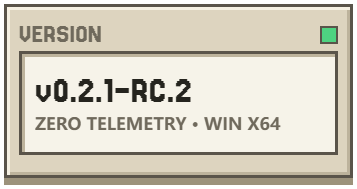
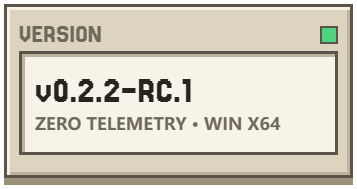
chore(release): 发布 Prismux v0.2.2-RC.1（0.2.2-rc.1）

Changed region(s): [[0.2773, 0.3968, 0.5546, 0.5556]]

diff --git a/assets/readme/header.html b/assets/readme/header.html
@@ -70,7 +70,7 @@ h1{margin:0;font-size:124px;line-height:1.12;height:140px;white-space:nowrap}
 </div>
 </section>
 <section class="metrics">
-<div id="stat-version" class="metric frame"><div class="metric-head pixel">VERSION<i class="lamp"></i></div><div class="metric-value"><span class="number pixel">v0.2.1-RC.2</span><span class="metric-label" data-zh="纯本地零遥测 · WIN X64" data-en="ZERO TELEMETRY · WIN X64"></span></div></div>
+<div id="stat-version" class="metric frame"><div class="metric-head pixel">VERSION<i class="lamp"></i></div><div class="metric-value"><span class="number pixel">v0.2.2-RC.1</span><span class="metric-label" data-zh="纯本地零遥测 · WIN X64" data-en="ZERO TELEMETRY · WIN X64"></span></div></div>
 <div id="stat-visual" class="metric frame"><div class="metric-head pixel">VISUAL<i class="lamp"></i></div><div class="metric-value"><span class="number pixel">0 TOKEN</span><span class="metric-label" data-zh="8 分区液态玻璃 · 零模型开销" data-en="8-ZONE LIQUID GLASS · 0 TOKEN"></span></div></div>
 <div id="stat-memory" class="metric frame"><div class="metric-head pixel">MEMORY<i class="lamp"></i></div><div class="metric-value"><span class="number pixel">SQLITE VEC</span><span class="metric-label" data-zh="单文件 WAL + FTS5 + 物理隔离" data-en="SINGLE-FILE WAL + ISOLATION"></span></div></div>
 <div id="stat-plugins" class="metric frame"><div class="metric-head pixel">PLUGINS<i class="lamp"></i></div><div class="metric-value"><span class="number pixel">2 PLUGINS</span><span class="metric-label" data-zh="两大官方插件 · 默认不预装" data-en="2 OPTIONAL · ZERO PREINSTALL"></span></div></div>

diff --git a/apps/daemon/src/__tests__/app-updater.test.ts b/apps/daemon/src/__tests__/app-updater.test.ts
@@ -684,7 +684,7 @@ test("AppUpdater supports Range resume, 302 redirects (max 6 hops), and customGh
   }
 });
 
-test("PrismuxDaemon integrates AppUpdater with 0.2.1-rc.2 default and exposes HTTP & RPC updater endpoints", async () => {
+test("PrismuxDaemon integrates AppUpdater with 0.2.2-rc.1 default and exposes HTTP & RPC updater endpoints", async () => {
   const dataDir = makeTempDir("prismux-daemon-updater-");
   const daemon = new PrismuxDaemon({
     headless: true,
@@ -701,7 +701,7 @@ test("PrismuxDaemon integrates AppUpdater with 0.2.1-rc.2 default and exposes HT
     });
     assert.equal(statusRes.status, 200);
     const statusJson = (await statusRes.json()) as UpdaterStatusSnapshot;
-    assert.equal(statusJson.currentVersion, "0.2.1-rc.2");
+    assert.equal(statusJson.currentVersion, "0.2.2-rc.1");
     assert.equal(statusJson.policy.routePreference, "auto");
     assert.equal(statusJson.policy.includePrerelease, true);
     assert.equal(statusJson.policy.customGhProxyPrefix, "");

diff --git a/apps/daemon/src/__tests__/daemon-media-and-api.test.ts b/apps/daemon/src/__tests__/daemon-media-and-api.test.ts
@@ -1439,13 +1439,13 @@ export function apply(ctx) {
     currentVersion: string;
     policy: { routePreference: string; includePrerelease: boolean };
   };
-  assert.equal(updaterStatus.currentVersion, "0.2.1-rc.2");
+  assert.equal(updaterStatus.currentVersion, "0.2.2-rc.1");
   assert.equal(updaterStatus.policy.routePreference, "domestic");
   assert.equal(updaterStatus.policy.includePrerelease, false);
 
   const healthCheckRes = await fetch(`${ready.httpUrl}/health`);
   assert.equal(healthCheckRes.status, 200);
-  assert.equal(((await healthCheckRes.json()) as { version: string }).version, "0.2.1-rc.2");
+  assert.equal(((await healthCheckRes.json()) as { version: string }).version, "0.2.2-rc.1");
 });
 
 test("Resilient cold-start: non-blocking T3 connect + /ws normalization + Electron protocol CORS + PRISMUX_CATALOG_PATH resolution", async () => {

diff --git a/scripts/publish-gitee-release.ts b/scripts/publish-gitee-release.ts
@@ -745,7 +745,7 @@ async function main(): Promise<void> {
 
   if (values.help || !values.dir) {
     console.log(
-      'Usage: node scripts/publish-gitee-release.ts --dir <release-dir> [--tag v0.2.1-rc.2] [--notes <md-path>] [--force] [--latest]',
+      'Usage: node scripts/publish-gitee-release.ts --dir <release-dir> [--tag v0.2.2-rc.1] [--notes <md-path>] [--force] [--latest]',
     );
     if (!values.help) {
       process.exitCode = 1;

diff --git a/plugins-official/plugin-fishdock-hook/src/index.ts b/plugins-official/plugin-fishdock-hook/src/index.ts
@@ -43,7 +43,7 @@ function readBundledManifestVersion(fallback: string): string {
 
 export const manifest: PluginManifest = {
   id: "fishdock-hook",
-  version: readBundledManifestVersion("0.2.1-rc.2"),
+  version: readBundledManifestVersion("0.2.2-rc.1"),
   realms: ["daemon"],
   permissions: ["network:outbound", "hooks:subscribe", "notifications:push"],
   modelVisible: false,

diff --git a/plugins-official/plugin-qq/src/index.ts b/plugins-official/plugin-qq/src/index.ts
@@ -52,7 +52,7 @@ function readBundledManifestVersion(fallback: string): string {
 
 export const manifest: PluginManifest = {
   id: "qq",
-  version: readBundledManifestVersion("0.2.1-rc.2"),
+  version: readBundledManifestVersion("0.2.2-rc.1"),
   realms: ["daemon", "ui"],
   permissions: [
     "network:outbound",

diff --git a/packages/protocol/src/brand.ts b/packages/protocol/src/brand.ts
@@ -1,4 +1,4 @@
-export const DEFAULT_APP_VERSION = "0.2.1-rc.2" as const;
+export const DEFAULT_APP_VERSION = "0.2.2-rc.1" as const;
 
 export const BRAND = {
   appName: "Prismux",

diff --git a/README.en.md b/README.en.md
@@ -12,7 +12,7 @@
 </picture>
 
 <p>
-  <a href="https://github.com/Fish-under-sea/Prismux/releases/tag/v0.2.1-rc.2"><picture><source media="(prefers-color-scheme: dark)" srcset="assets/readme/stat-version-en-dark.png"><img src="assets/readme/stat-version-en-light.png" alt="VERSION: v0.2.1-RC.2 (Zero Telemetry · Win x64)" width="23%"></picture></a>
+  <a href="https://github.com/Fish-under-sea/Prismux/releases/tag/v0.2.2-rc.1"><picture><source media="(prefers-color-scheme: dark)" srcset="assets/readme/stat-version-en-dark.png"><img src="assets/readme/stat-version-en-light.png" alt="VERSION: v0.2.2-RC.1 (Zero Telemetry · Win x64)" width="23%"></picture></a>
   <a href="#preview"><picture><source media="(prefers-color-scheme: dark)" srcset="assets/readme/stat-visual-en-dark.png"><img src="assets/readme/stat-visual-en-light.png" alt="VISUAL: 0 TOKEN (8-Zone Liquid Glass)" width="23%"></picture></a>
   <a href="#features"><picture><source media="(prefers-color-scheme: dark)" srcset="assets/readme/stat-memory-en-dark.png"><img src="assets/readme/stat-memory-en-light.png" alt="MEMORY: SQLITE VEC (Single-File Isolation)" width="23%"></picture></a>
   <a href="#plugins"><picture><source media="(prefers-color-scheme: dark)" srcset="assets/readme/stat-plugins-en-dark.png"><img src="assets/readme/stat-plugins-en-light.png" alt="PLUGINS: 2 PLUGINS (Zero Preinstall)" width="23%"></picture></a>
@@ -24,23 +24,23 @@
   <img src="https://img.shields.io/badge/React-19-8fd6a0?style=flat-square&amp;logo=react&amp;logoColor=white&amp;labelColor=5a544a" alt="React 19">
   <img src="https://img.shields.io/badge/Node.js-%3E%3D24.12-8fd6a0?style=flat-square&amp;logo=nodedotjs&amp;logoColor=white&amp;labelColor=5a544a" alt="Node.js >= 24.12">
   <img src="https://img.shields.io/badge/License-MIT-8fd6a0?style=flat-square&amp;labelColor=5a544a" alt="License MIT">
-  <img src="https://img.shields.io/badge/Release-v0.2.1--RC.2-f08a5d?style=flat-square&amp;labelColor=5a544a" alt="Release Prismux v0.2.1-RC.2">
+  <img src="https://img.shields.io/badge/Release-v0.2.2--RC.1-f08a5d?style=flat-square&amp;labelColor=5a544a" alt="Release Prismux v0.2.2-RC.1">
 </p>
 
 <p><strong>Prismux · Local-First, Zero-Telemetry 8-Zone Liquid-Glass AI Super Workbench &amp; 24/7 Secretary</strong><br>
-Built on a unified first-party <strong><code>@prismux/*</code> Monorepo (Electron 44 + Effect + TypeScript + React 19)</strong>, Prismux commands Claude Code, Codex, Antigravity, cross-drive auto-discovered native <code>dsh</code> (DeepSeek Harness), <code>Pi</code>, and OpenCode from one calm window—uniting DSH conversation telemetry &amp; <code>/usage</code> scanning, native universal API relay quota tracking (New API / One API / OpenAI-compatible), first-class Gitee source control, Tencent Agent Mail &amp; NetEase 163/126 Overnight Factory, HEVC &amp; cookie-free Web wallpaper rendering, official ACP brand icons, global SSOT ordering &amp; 1:1 DSH NEXT work steps, Orca 2×2 Split Anything, 0-Token 8-zone Liquid Glass, and single-file SQLite hybrid memory.<br>
+Built on a unified first-party <strong><code>@prismux/*</code> Monorepo (Electron 44 + Effect + TypeScript + React 19)</strong>, Prismux commands native-CLI-identity Claude Code, Codex, Antigravity, cross-drive auto-discovered native <code>dsh</code> (DeepSeek Harness), <code>Pi</code>, and OpenCode from one calm window—uniting <strong>6 poetic liquid-glass theme substrates</strong>, <strong>Steam Web &amp; 4K/8K Scene (<code>scene.pkg</code>) live wallpaper engine with master audio silence</strong>, dual-layer frosted 5s subscription waiver gate, maximized inner-corner stage frame &amp; themed file tree, full-width Settings &amp; transparent thinking headers, DSH telemetry &amp; universal relay quotas, first-class Gitee source control, Orca 2×2 Split Anything, and single-file SQLite hybrid memory.<br>
 Zero silent telemetry out of the box, pure QR remote pairing (zero cloud accounts), and strictly zero-preinstall plugins—your workspace, your privacy, your rules.</p>
 
 <p>
   <a href="#install"><picture><source media="(prefers-color-scheme: dark)" srcset="assets/readme/key-download-en-dark.png"><img src="assets/readme/key-download-en-light.png" alt="Downloads" height="40"></picture></a>
-  <a href="https://github.com/Fish-under-sea/Prismux/releases/tag/v0.2.1-rc.2"><picture><source media="(prefers-color-scheme: dark)" srcset="assets/readme/key-release-en-dark.png"><img src="assets/readme/key-release-en-light.png" alt="Changelog" height="40"></picture></a>
+  <a href="https://github.com/Fish-under-sea/Prismux/releases/tag/v0.2.2-rc.1"><picture><source media="(prefers-color-scheme: dark)" srcset="assets/readme/key-release-en-dark.png"><img src="assets/readme/key-release-en-light.png" alt="Changelog" height="40"></picture></a>
   <a href="https://github.com/Fish-under-sea/Prismux/issues"><picture><source media="(prefers-color-scheme: dark)" srcset="assets/readme/key-issues-en-dark.png"><img src="assets/readme/key-issues-en-light.png" alt="Issues" height="40"></picture></a>
 </p>
 
 <br>
 
 <p>
-  <img src="assets/readme/hero-demo-v02.gif" width="100%" alt="Prismux v0.2.1-RC.2 8-second live Electron 44 GPU demo: live 8-zone Liquid Glass refraction, Codex running-chibi 7-level reasoning effort slider &amp; Fast/Ultra Fast toggles, 2×2 Orca Split Anything, and 24-hour dynamic sky transition">
+  <img src="assets/readme/hero-demo-v02.gif" width="100%" alt="Prismux v0.2.2-RC.1 8-second live Electron 44 GPU demo: live 8-zone Liquid Glass refraction, Codex running-chibi 7-level reasoning effort slider &amp; Fast/Ultra Fast toggles, 2×2 Orca Split Anything, and 24-hour dynamic sky transition">
   <br>
   <sub><strong>8-Second Live Electron 44 GPU Capture</strong> (<a href="assets/readme/hero-demo-v02.webp">View crisp 1200×750 16 FPS Animated WebP</a>): (1) Open the right wallpaper drawer to adjust <strong>8-Zone Liquid Glass</strong> refraction live over an animated wallpaper; (2) Sweep the Codex <strong><code>dsh-fish</code> running-chibi 7-level effort slider</strong> (<code>Mini → Ultra</code>) and toggle <code>Fast / Ultra Fast</code>; (3) Launch a <strong>2×2 Orca Split Anything</strong> grid (zero interior corner radius, crisp <code>1px</code> dividers) with the <strong>24-hour living sky</strong> shifting smoothly from noon to starry night.</sub>
 </p>
@@ -58,14 +58,13 @@ Zero silent telemetry out of the box, pure QR remote pairing (zero cloud account
 - **Single-File Hybrid Memory, Sidebar Overnight Factory & Zero-Preinstall Plugins**: Store all durable memories in `~/.prismux/data/memory.db` (SQLite WAL + FTS5 + `sqlite-vec`) with transport-level group-chat isolation; access `Overnight Factory & Mail` right from the main sidebar with one-click toggle; install `qq` and `fishdock-hook` strictly on demand (zero preinstall, leak-free teardown) alongside Argon2id + AEAD E2EE sync and concurrent GitHub / Gitee updates.
 
 > [!TIP]
-> **What's New in `Prismux v0.2.1-RC.2`**
-> - **DSH Telemetry, `/usage` Zstd History Scanning & Cross-Drive Auto-Discovery**: Parses `~/.dsh/sessions` Zstd frames for authoritative TTFT / Decode / cache / TPS telemetry without metric inversions; adds Windows Uninstall Registry + `C:`–`F:` cross-drive discovery (DSH NEXT / Antigravity + `bun` / `scoop` / `volta` shims) and streamlines Tab 2 Text Generation to pure standalone APIs (`OpenAI / Anthropic / Gemini / Custom`).
-> - **Wallpaper Rendering, True Aspect Ratios, Zero-Flicker Library & UX Redesign**: Adds cookie-free `/v1/wallpapers/web-t/<token>/` + Wallpaper Engine property bridge for Web wallpapers, enables `PlatformHEVCDecoderSupport` for 4K HEVC videos on Windows, reads native MP4/WebM/MKV dimensions in pure Node, eliminates Settings black-screen flicker, and unifies 16:9 cards.
-> - **Native Universal API Relay Quota Panel + First-Class `Gitee` Source Control**: Replaces legacy CLIProxyAPI-centric UI with Prismux's native relay quota panel supporting **New API / One API / Veloera / VoAPI / RixAPI** & OpenAI-compatible billing APIs (100% backward-compatible with `cliproxy`); removes `Cursor Origin` and adds first-class `@prismux/source-control-gitee` (OpenAPI v5 + Enterprise).
-> - **Overnight Factory Tencent `Agent Mail` (`agent.qq.com`) & NetEase `163 / 126` Upgrade**: Reorders the 6-card 3×2 preset grid (`Gmail / QQ / Agent Mail / Outlook / NetEase 163/126 / Custom`) with built-in `@tencent-qqmail/agently-cli` install, opaque OAuth login, and identity verification.
-> - **Workbench Craft & Bugfixes**: Covers official brand icons across ACP agents; applies user theme `--primary` accent to timeline thinking & non-error tool icons; pins updater progress above release notes with semantic sidebar capsule tokens; compacts `/diagnostics` cards to `Git` footprint; removes redundant right-panel activity bar and fixes disabled providers falsely warning "CLI not installed".
+> **What's New in `Prismux v0.2.2-RC.1`**
+> - **6 Poetic Liquid-Glass Theme Substrates**: Adds `Pure Official` (`pure`), `Starry Violet` (`starry-violet`), `Emerald Stars` (`emerald-stars`), `Sakura Drift` (`sakura-drift`), `Ocean Caustics` (`ocean-caustics`), and `Gilded Lunar` (`gilded-lunar`), synced bidirectionally between the right Appearance drawer and `/settings/appearance` with strict 0-Token host isolation.
+> - **Steam Workshop Web & 4K/8K Scene (`scene.pkg`) Live Engine + Bulletproof Audio Silence**: Hardens Web wallpapers with zero-Referer `../` URL clamping, `:where(body > canvas#canvas)` sizing & layout-ready delivery guards, and a master `HTMLMediaElement` + `AudioContext` silencer (strictly muted by default); unlocks zero-copy byte-range MP4 video textures & viewport-scaled 4K/8K Scene staging with safe preview fallback for Puppet/Bone-Mesh rigs and DXT backgrounds.
+> - **All-Agent Native CLI Identity & Dual-Layer 5s Waiver Confirmation Gate**: Removes all custom originator/entrypoint overrides across Codex (`codex_cli_rs`), Claude Code, and Antigravity (`agy`); upgrades the Subscription Risk Waiver modal with dual-layer frosted blur (backdrop + card), a mandatory 5-second reading countdown, and full-text confirmation input (zero copy shortcuts).
+> - **Maximized Inner Corners, Themed File Tree, Full-Width Settings & Transparent Thinking Header**: Extends the monolithic 14px `<PrismuxStageFrame>` inner-corner mask over maximized right-sidebar panels without double blur; binds `@pierre/trees` focus/selection tokens to `--pmx-accent` & glass substrates (no hardcoded blue rings); unifies all `/settings/*` views to full-width `max-w-none px-6`; and makes expanded thinking headers cleanly transparent.
 
[2 lines of base64/hex data omitted]
 
 <h2 id="preview"><picture><source media="(prefers-color-scheme: dark)" srcset="assets/readme/section-preview-en-dark.png"><img src="assets/readme/section-preview-en-light.png" alt="PREVIEW · Visual Preview" width="100%"></picture></h2>
 
@@ -161,14 +160,14 @@ The current release is **`Prismux v0.2.1-RC.2`** (tag `v0.2.1-rc.2`), shipping `
 <h2 id="plugins"><picture><source media="(prefers-color-scheme: dark)" srcset="assets/readme/section-plugins-en-dark.png"><img src="assets/readme/section-plugins-en-light.png" alt="PLUGINS · Optional Plugins" width="100%"></picture></h2>
 
 > [!NOTE]
-> **Two Active Official Plugins Are Strictly Never Preinstalled**: Neither `Prismux-Setup-0.2.1-rc.2-win-x64.exe` nor the unpacked desktop bundle contains any directory from `plugins-official/` (verified at 0 hits across the packaged tree). Both active official plugins (`qq` and `fishdock-hook`) ship independently as verified `.wb-plugin` archives (indexed by `prismux-plugins-official.json` and `prismux-plugins-0.2.1-rc.2-SHA256SUMS.txt`) and script-free npm single packages, installing strictly on demand with `ctx.effect()` zero-leak teardown.
+> **Two Active Official Plugins Are Strictly Never Preinstalled**: Neither `Prismux-Setup-0.2.2-rc.1-win-x64.exe` nor the unpacked desktop bundle contains any directory from `plugins-official/` (verified at 0 hits across the packaged tree). Both active official plugins (`qq` and `fishdock-hook`) ship independently as verified `.wb-plugin` archives (indexed by `prismux-plugins-official.json` and `prismux-plugins-0.2.2-rc.1-SHA256SUMS.txt`) and script-free npm single packages, installing strictly on demand with `ctx.effect()` zero-leak teardown.
 >
 > **Retired Plugins Notice**: `pet` (`@prismux/plugin-pet`) and `ssh` (`@prismux/plugin-ssh`) have been retired and removed from the official catalog and release pipeline — **Deprecated: Replaced by Prismux built-in capabilities**.
 
 | Plugin ID | Archive (`.wb-plugin`) | npm Package (Unscoped / GitHub Packages) | Realms | Capabilities &amp; Isolation |
 | :--- | :--- | :--- | :--- | :--- |
[4 lines of base64/hex data omitted]
 
 ### Plugin Authoring &amp; Official Documentation
 
@@ -183,31 +182,31 @@ Building a custom Prismux plugin or delegating it to a Coding Agent? Follow the 
 
 | Channel | Best For | Release &amp; Download Details |
 | :--- | :--- | :--- |
-| **GitHub Releases** (Global) | Direct global network / GitHub CLI environments | [Prismux v0.2.1-RC.2 Release](https://github.com/Fish-under-sea/Prismux/releases/tag/v0.2.1-rc.2) · [Direct `Prismux-Setup-0.2.1-rc.2-win-x64.exe`](https://github.com/Fish-under-sea/Prismux/releases/download/v0.2.1-rc.2/Prismux-Setup-0.2.1-rc.2-win-x64.exe) |
-| **Gitee Releases** (Mainland China Mirror) | High-speed direct downloads inside mainland China | [Prismux v0.2.1-RC.2 Release](https://gitee.com/Fish-under-sea/Prismux/releases/tag/v0.2.1-rc.2) (includes `80 MB` split `.7z` volumes, consolidated checksums, and active official plugin archives) |
+| **GitHub Releases** (Global) | Direct global network / GitHub CLI environments | [Prismux v0.2.2-RC.1 Release](https://github.com/Fish-under-sea/Prismux/releases/tag/v0.2.2-rc.1) · [Direct `Prismux-Setup-0.2.2-rc.1-win-x64.exe`](https://github.com/Fish-under-sea/Prismux/releases/download/v0.2.2-rc.1/Prismux-Setup-0.2.2-rc.1-win-x64.exe) |
+| **Gitee Releases** (Mainland China Mirror) | High-speed direct downloads inside mainland China | [Prismux v0.2.2-RC.1 Release](https://gitee.com/Fish-under-sea/Prismux/releases/tag/v0.2.2-rc.1) (includes `80 MB` split `.7z` volumes, consolidated checksums, and active official plugin archives) |
 | **In-App Update Center** (Recommended) | Concurrent latency probing, weighted split progress &amp; mandatory SHA-256 verification | Open **Settings → About &amp; Updates** (`/settings/about#prismux-updates`) to switch between `Auto / Domestic First / Global First`, browse rich release notes, and install with one click |
 
 ### Platform Downloads &amp; Integrity Verification
 
 | Platform / Release Asset | Filename / Availability | Details &amp; Isolation |
 | :--- | :--- | :--- |
[2 lines of base64/hex data omitted]
 | **macOS (Apple Silicon / Intel)** | `Coming soon (Channel reserved)` | Planned `.dmg` builds will follow the exact same `0-Token` visual separation and `~/.prismux/` isolation guarantees |
 | **Linux (x86_64 / arm64)** | `Coming soon (Channel reserved)` | Planned `.AppImage` / `.deb` packages will support dual-route updates and verified on-demand plugin import |
-| **2 Active Official Plugin Archives** | `prismux-plugin-{qq,fishdock-hook}-0.2.1-rc.2.wb-plugin` &amp; `prismux-plugins-official.json` | Deterministic ustar + gzip bundles for on-demand verified import via `/settings/plugins` (`pet` &amp; `ssh` retired: replaced by built-in capabilities) |
-| **Consolidated Checksums** | `Prismux-0.2.1-rc.2-SHA256SUMS.txt` &amp; `prismux-plugins-0.2.1-rc.2-SHA256SUMS.txt` | Verify manual downloads with `Get-FileHash Prismux-Setup-0.2.1-rc.2-win-x64.exe -Algorithm SHA256` or `7z t` |
+| **2 Active Official Plugin Archives** | `prismux-plugin-{qq,fishdock-hook}-0.2.2-rc.1.wb-plugin` &amp; `prismux-plugins-official.json` | Deterministic ustar + gzip bundles for on-demand verified import via `/settings/plugins` (`pet` &amp; `ssh` retired: replaced by built-in capabilities) |
+| **Consolidated Checksums** | `Prismux-0.2.2-rc.1-SHA256SUMS.txt` &amp; `prismux-plugins-0.2.2-rc.1-SHA256SUMS.txt` | Verify manual downloads with `Get-FileHash Prismux-Setup-0.2.2-rc.1-win-x64.exe -Algorithm SHA256` or `7z t` |
 
 <h2 id="packages"><picture><source media="(prefers-color-scheme: dark)" srcset="assets/readme/section-packages-en-dark.png"><img src="assets/readme/section-packages-en-light.png" alt="PACKAGES · npm &amp; Mirrors" width="100%"></picture></h2>
 
-Each active official plugin is also published as a **script-free (`preinstall / install / postinstall` disabled)** standalone npm package bundling its SHA-256-verified `prismux-plugin-<id>-0.2.1-rc.2.wb-plugin` archive and an overwrite-safe export CLI (`prismux-plugin-<id>`). Inside the Plugin Center, community and official tarballs stream directly over HTTPS with automatic failover between **`registry.npmjs.org` ↔ `registry.npmmirror.com`** and zero local `git` invocation.
+Each active official plugin is also published as a **script-free (`preinstall / install / postinstall` disabled)** standalone npm package bundling its SHA-256-verified `prismux-plugin-<id>-0.2.2-rc.1.wb-plugin` archive and an overwrite-safe export CLI (`prismux-plugin-<id>`). Inside the Plugin Center, community and official tarballs stream directly over HTTPS with automatic failover between **`registry.npmjs.org` ↔ `registry.npmmirror.com`** and zero local `git` invocation.
 
 ```powershell
 # 1. Install and extract a verified .wb-plugin archive from npmjs
-npm install prismux-plugin-qq@0.2.1-rc.2
+npm install prismux-plugin-qq@0.2.2-rc.1
 npx prismux-plugin-qq --out ./plugins-stage
 
 # 2. Use the npmmirror domestic registry in mainland China
-npm install prismux-plugin-qq@0.2.1-rc.2 --registry=https://registry.npmmirror.com
+npm install prismux-plugin-qq@0.2.2-rc.1 --registry=https://registry.npmmirror.com
 npx prismux-plugin-qq --out ./plugins-stage
 ```
 
@@ -249,7 +248,7 @@ prismux/
 ├── THIRD_PARTY_NOTICES.md               # Third-party open-source licenses & historical attributions
 ├── README.md / README.en.md             # Bilingual project homepages (with 8s live GPU demo)
 ├── pnpm-workspace.yaml                  # Unified workspace allowlist (apps/*, packages/*, plugins-official/plugin-*, oxlint-plugin-prismux, scripts)
-├── package.json                         # Root orchestration scripts (0.2.1-rc.2)
+├── package.json                         # Root orchestration scripts (0.2.2-rc.1)
 ├── tsconfig.base.json                   # Strict TS 5.8+ baseline for daemon & core packages (ES2024 + NodeNext)
 ├── tsconfig.core.json / vite.config.ts  # Unified Vite+ (vp) build, lint, format & test config
 ├── assets/
@@ -303,7 +302,7 @@ prismux/
 </details>
 
 <details>
-<summary><strong>Expand: M1–M5 &amp; v0.1.0–v0.2.1-RC.2 Evolution Milestones</strong></summary>
+<summary><strong>Expand: M1–M5 &amp; v0.1.0–v0.2.2-RC.1 Evolution Milestones</strong></summary>
 
 | Milestone | Scope Delivered | Status |
 | :--- | :--- | :--- |
@@ -318,6 +317,7 @@ prismux/
 | **v0.2.0-RC.3** | **Floating Overview Panel exempting composer**, **global bottom-right floating Liquid-Glass Undo Toast**, **lean 4-group divider-free Settings sidebar (`智能体配置` / `秘书与记忆` / `项目与归档`) + 3-tab Agent Configurator**, **pure blue-whale DSH icon + `Pi` restored &amp; `fx` removed**, **live DSH 4 slash commands &amp; 14 local skills + semantic ACP adaptation**, **Task-Manager-accurate Windows CPU% &amp; Private Working Set resource monitor + probe-driven Status Bar Usage badges**, universal full-bleed effort slider, full-width Scheduled Tasks, bilingual Workspace Board &amp; sidebar hover 3-action bar | Complete &amp; Live-Verified |
 | **v0.2.1-RC.1** | **Global provider SSOT ordering &amp; custom naming across 23 synced surfaces**, **1:1 DSH NEXT thinking/command hierarchy + 4-tier transparent work steps + 100% Chinese actions + smooth motion &amp; 3-mode Glass**, **DSH-parity reasoning translation (Bing default + dual-side smart Chinese skip, Google &amp; text-model options)**, **AGY-style Chinese live TodoList across all 6 agents + 1:1 DSH `SearchBlock` / `WebBlock`**, **standalone `/diagnostics` + full-bleed Overnight Factory (default IMAP/SMTP &amp; Gmail preset)**, AGY waiver guard on Chief &amp; text-gen + live DSH `app.asar` version probe, tab harness/phantom fix + 12-category localized error diagnostic cards, primary/secondary text hierarchy + live Appearance color preview, `Preview (Alpha / Beta / RC)` copy + official Prismux Logo across all 3 updater surfaces, legacy T3 asset cleanup &amp; Windows `D:\tmp`/`D:\Microsoft` test leak elimination | Complete &amp; Verified |
 | **v0.2.1-RC.2** | **DSH conversation telemetry &amp; `/usage` Zstd history scanning (real TTFT/Decode/cache/TPS)**, **DSH / Antigravity cross-drive auto-discovery + Tab 2 standalone API Text Generation (`OpenAI/Anthropic/Gemini/Custom`)**, **cookie-free Web wallpaper token route + Windows 4K HEVC + native video dimension parsing &amp; flicker-free 16:9 UX redesign**, **native universal API Relay Quota panel (New API/One API/OpenAI-compatible + `cliproxy` compat)**, **first-class `Gitee` OpenAPI v5 source control (`Cursor Origin` removed)**, **Overnight Factory Tencent `Agent Mail` (`agently-cli`) &amp; NetEase `163/126`**, official ACP brand icons, theme `--primary` timeline thinking &amp; tool icons, pinned updater progress bar &amp; semantic sidebar capsule, compact `/diagnostics` cards, streamlined right panel &amp; disabled-provider false CLI warning fix | Complete &amp; Verified |
+| **v0.2.2-RC.1** | **6 poetic liquid-glass theme substrates (`pure / starry-violet / emerald-stars / sakura-drift / ocean-caustics / gilded-lunar`) synced bidirectionally with 0-Token isolation**, **Steam Web (zero-Referer `../` clamping + canvas sizing &amp; layout-ready delivery guards) &amp; 4K/8K Scene (`scene.pkg` zero-copy byte-range MP4, viewport-scaled staging &amp; Puppet/DXT safe preview fallback) live engine + master `HTMLMediaElement`/`AudioContext` silencer**, **all-agent native CLI identity preservation (Codex/Claude Code overrides removed)**, **dual-layer frosted 5s Subscription Risk Waiver modal with full-text confirmation gate**, **14px `<PrismuxStageFrame>` inner-corner coverage over maximized right panels, themed `@pierre/trees` file tree, unified full-width `/settings/*` layout &amp; transparent expanded thinking headers** | Complete &amp; Verified |
 
 </details>
 
@@ -350,4 +350,4 @@ prismux/
 
 Prismux core source code and README layout tooling are licensed under the **MIT License** (see [`LICENSE`](LICENSE)); the bundled pixel font `Jersey20-Regular.ttf` is licensed under [SIL Open Font License 1.1](assets/readme/OFL-Jersey20.txt); all third-party libraries and historical open-source attributions are preserved in [`THIRD_PARTY_NOTICES.md`](THIRD_PARTY_NOTICES.md).
 
-<p align="center"><sub>Prismux v0.2.1-RC.2 · Electron 44 + TypeScript + React 19 · Local-First Zero Telemetry · 8-Zone Liquid Glass · Orca Split Anything · 2 Optional Official Plugins</sub></p>
+<p align="center"><sub>Prismux v0.2.2-RC.1 · Electron 44 + TypeScript + React 19 · Local-First Zero Telemetry · 8-Zone Liquid Glass · Orca Split Anything · 2 Optional Official Plugins</sub></p>

diff --git a/README.md b/README.md
@@ -12,7 +12,7 @@
 </picture>
 
 <p>
-  <a href="https://github.com/Fish-under-sea/Prismux/releases/tag/v0.2.1-rc.2"><picture><source media="(prefers-color-scheme: dark)" srcset="assets/readme/stat-version-zh-dark.png"><img src="assets/readme/stat-version-zh-light.png" alt="VERSION：v0.2.1-RC.2（纯本地零遥测 · Win x64）" width="23%"></picture></a>
+  <a href="https://github.com/Fish-under-sea/Prismux/releases/tag/v0.2.2-rc.1"><picture><source media="(prefers-color-scheme: dark)" srcset="assets/readme/stat-version-zh-dark.png"><img src="assets/readme/stat-version-zh-light.png" alt="VERSION：v0.2.2-RC.1（纯本地零遥测 · Win x64）" width="23%"></picture></a>
   <a href="#preview"><picture><source media="(prefers-color-scheme: dark)" srcset="assets/readme/stat-visual-zh-dark.png"><img src="assets/readme/stat-visual-zh-light.png" alt="VISUAL：0 TOKEN（8 分区液态玻璃）" width="23%"></picture></a>
   <a href="#features"><picture><source media="(prefers-color-scheme: dark)" srcset="assets/readme/stat-memory-zh-dark.png"><img src="assets/readme/stat-memory-zh-light.png" alt="MEMORY：SQLITE VEC（单文件物理隔离）" width="23%"></picture></a>
   <a href="#plugins"><picture><source media="(prefers-color-scheme: dark)" srcset="assets/readme/stat-plugins-zh-dark.png"><img src="assets/readme/stat-plugins-zh-light.png" alt="PLUGINS：2 PLUGINS（默认不预装）" width="23%"></picture></a>
@@ -24,23 +24,23 @@
   <img src="https://img.shields.io/badge/React-19-8fd6a0?style=flat-square&amp;logo=react&amp;logoColor=white&amp;labelColor=5a544a" alt="React 19">
   <img src="https://img.shields.io/badge/Node.js-%3E%3D24.12-8fd6a0?style=flat-square&amp;logo=nodedotjs&amp;logoColor=white&amp;labelColor=5a544a" alt="Node.js >= 24.12">
   <img src="https://img.shields.io/badge/License-MIT-8fd6a0?style=flat-square&amp;labelColor=5a544a" alt="License MIT">
-  <img src="https://img.shields.io/badge/Release-v0.2.1--RC.2-f08a5d?style=flat-square&amp;labelColor=5a544a" alt="Release Prismux v0.2.1-RC.2">
+  <img src="https://img.shields.io/badge/Release-v0.2.2--RC.1-f08a5d?style=flat-square&amp;labelColor=5a544a" alt="Release Prismux v0.2.2-RC.1">
 </p>
 
 <p><strong>Prismux · 纯本地零遥测的 8 分区液态玻璃 AI 超级工作台与 24 小时常驻秘书</strong><br>
-基于统一第一方 <strong><code>@prismux/*</code> Monorepo（Electron 44 + Effect + TypeScript + React 19）</strong>，在一个桌面窗口里统一驾驭 Claude Code、Codex、Antigravity、原生跨盘自动发现的 <code>dsh</code>（DeepSeek Harness）、<code>Pi</code> 与 OpenCode；集 DSH 对话遥测与 <code>/usage</code> 历史统计、通用 API 中转站配额（New API / One API / OpenAI 兼容）、一级 Gitee 源码托管、腾讯 Agent 邮箱与网易 163/126 夜间工场、HEVC / 无 Cookie Web 壁纸渲染舞台、ACP 官方品牌图标、全局单一真相源与 1:1 DSH NEXT 工作步骤、Orca 2×2 全要素任意分屏、0 Token 8 分区液态玻璃及单文件 SQLite 混合记忆于一身。<br>
+基于统一第一方 <strong><code>@prismux/*</code> Monorepo（Electron 44 + Effect + TypeScript + React 19）</strong>，在一个桌面窗口里统一驾驭原生 CLI 身份的 Claude Code、Codex、Antigravity、跨盘自动发现的 <code>dsh</code>（DeepSeek Harness）、<code>Pi</code> 与 OpenCode；集 <strong>6 款诗意液态玻璃主题基底</strong>、<strong>Steam Web / 4K-8K Scene（<code>scene.pkg</code>）实时壁纸引擎与全局静音守卫</strong>、双层磨砂 5 秒订阅免责门禁、最大化内圆角画框与主题化文件树、全宽设置中心与清透思考头、DSH 对话遥测与通用 API 中转站配额、一级 Gitee 源码托管、Orca 2×2 全要素任意分屏及单文件 SQLite 混合记忆于一身。<br>
 默认全栈零遥测、纯本地扫码远控（零云端账号绑定）、官方插件严格按需零预装——把效率、质感与隐私控制权完完整整还给你。</p>
 
 <p>
   <a href="#install"><picture><source media="(prefers-color-scheme: dark)" srcset="assets/readme/key-download-zh-dark.png"><img src="assets/readme/key-download-zh-light.png" alt="下载 / Releases" height="40"></picture></a>
-  <a href="https://github.com/Fish-under-sea/Prismux/releases/tag/v0.2.1-rc.2"><picture><source media="(prefers-color-scheme: dark)" srcset="assets/readme/key-release-zh-dark.png"><img src="assets/readme/key-release-zh-light.png" alt="更新记录" height="40"></picture></a>
+  <a href="https://github.com/Fish-under-sea/Prismux/releases/tag/v0.2.2-rc.1"><picture><source media="(prefers-color-scheme: dark)" srcset="assets/readme/key-release-zh-dark.png"><img src="assets/readme/key-release-zh-light.png" alt="更新记录" height="40"></picture></a>
   <a href="https://github.com/Fish-under-sea/Prismux/issues"><picture><source media="(prefers-color-scheme: dark)" srcset="assets/readme/key-issues-zh-dark.png"><img src="assets/readme/key-issues-zh-light.png" alt="反馈 / Issues" height="40"></picture></a>
 </p>
 
 <br>
 
 <p>
-  <img src="assets/readme/hero-demo-v02.gif" width="100%" alt="Prismux v0.2.1-RC.2 8 秒实机 GPU 动态演示：8 分区液态玻璃实时折射、Codex 奔跑小人 7 档推理滑条与 Fast/Ultra Fast 切换、2×2 Orca 任意分屏与 24h 动态天穹昼夜渐变">
+  <img src="assets/readme/hero-demo-v02.gif" width="100%" alt="Prismux v0.2.2-RC.1 8 秒实机 GPU 动态演示：8 分区液态玻璃实时折射、Codex 奔跑小人 7 档推理滑条与 Fast/Ultra Fast 切换、2×2 Orca 任意分屏与 24h 动态天穹昼夜渐变">
   <br>
   <sub><strong>8 秒实机 Electron 44 GPU 动态实录</strong>（<a href="assets/readme/hero-demo-v02.webp">查看 1200×750 16 FPS 高清 Animated WebP</a>）：① 右侧壁纸抽屉实时调节 <strong>8 分区液态玻璃</strong> 折射通透度；② Codex 模型选择器滑动 <strong><code>dsh-fish</code> 奔跑小人 7 档推理强度条</strong>（<code>Mini → Ultra</code>）并秒切 <code>Fast / Ultra Fast</code>；③ 一键展开 <strong>2×2 Orca 全要素任意分屏</strong>（内部零圆角、<code>1 px</code> 细线）与 <strong>24 小时动态天穹</strong> 昼夜平滑演化。</sub>
 </p>
@@ -58,14 +58,13 @@
 - **单文件混合记忆、夜间全自动工场与零预装插件生态**：全部记忆收敛于单文件 `~/.prismux/data/memory.db`（SQLite WAL + FTS5 + `sqlite-vec`）并由传输层物理隔离群聊作用域；`夜间工场与邮箱` 置入左侧主导航一键开关；官方仅维护 `qq` 与 `fishdock-hook` 两款按需独立插件（默认零预装，卸载零残留），配套 Argon2id + AEAD 端到端加密同步与 GitHub / Gitee 双源测速自动更新。
 
 > [!TIP]
-> **`Prismux v0.2.1-RC.2` 核心升级亮点**
-> - **DSH 对话遥测、`/usage` 历史扫描与跨盘零配置自动发现**：原生解析 `~/.dsh/sessions` Zstd 帧日志，补全真实 TTFT / Decode / 缓存命中 / TPS 并消除指标倒挂；新增 Windows 卸载注册表与 `C:`–`F:` 跨盘自动扫描（DSH NEXT / Antigravity 及 `bun` / `scoop` / `volta` CLI shim），文本生成收编为 Tab 2 纯独立 API 模式（`OpenAI / Anthropic / Gemini / 自定义`）。
-> - **壁纸渲染、真实比例、防闪烁与侧栏/设置页全面重构**：Web 壁纸启用无 Cookie 路径令牌路由 `/v1/wallpapers/web-t/<token>/` + Wallpaper Engine 属性桥，Windows 启用 `PlatformHEVCDecoderSupport` 硬解 4K HEVC，纯 Node 读取 MP4/WebM/MKV 真实分辨率，彻底消除设置页多壁纸黑屏闪烁并统一 16:9 卡片与重构后 UX。
-> - **Prismux 原生通用 API 中转站配额面板 + 一级 `Gitee` 源码托管**：去 T3 化升级为通用中转站配额面板（原生支持 **New API / One API / Veloera / VoAPI / RixAPI** 与 OpenAI 兼容余额接口并向下兼容 `cliproxy`）；彻底移除 `Cursor Origin`，在 GitHub 正下方接入原生 `@prismux/source-control-gitee`（OpenAPI v5 与企业版支持）。
-> - **夜间工场接入腾讯 `Agent 邮箱`（`agent.qq.com`）与网易 `163 / 126` 升级**：重排 6 卡 3×2 邮箱预设（`Gmail / QQ / Agent 邮箱 / Outlook / 网易邮箱 163/126 / 自定义`），内置 `@tencent-qqmail/agently-cli` 一键安装、不透明 OAuth 授权与身份核验。
-> - **全工作台视觉一致性与缺陷收口**：补齐 ACP 全家桶官方品牌图标；时间线思考与非报错工具前置图标接入主题 `--primary` 强调色；更新弹窗进度条吸顶 + 侧栏更新胶囊语义配色；`/diagnostics` 服务体检统一紧凑卡片；移除右侧面板冗余工具栏并修复已禁用提供方误报「未安装 CLI」缺陷。
+> **`Prismux v0.2.2-RC.1` 核心升级亮点**
+> - **6 款诗意液态玻璃主题基底（`主题基底`）**：上线 `纯净官方`、`星语紫夜`、`翠星漫野`、`樱雪浮岚`、`沧海浮光`、`鎏金织月` 6 款液态玻璃氛围基底，右侧外观边栏与 `/settings/appearance` 双向同步并严格保持对大模型 0 Token 宿主隔离。
+> - **Steam 创意工坊 Web / 4K-8K Scene（`scene.pkg`）实时渲染引擎与全局静音守卫**：Web 壁纸新增零 Referer `../` 越界 URL 钳制、`:where(body > canvas#canvas)` 尺寸守卫与布局就绪投放，并接入 `HTMLMediaElement` + `AudioContext` 全局主静音控制器（默认严格静音）；Scene（`scene.pkg`）打通内置 MP4 零拷贝字节范围流与 4K/8K 视口缩放舞台渲染，并对骨骼偶动画（Puppet / Bone-Mesh）与 DXT 压缩背景自动安全回退至预览图。
+> - **全代理原生 CLI 身份保持与双层磨砂 5 秒免责门禁**：彻底移除对 Codex / Claude Code 上游原生 CLI 身份头与环境变量的覆写（Codex 保持原生 `codex_cli_rs`，Claude Code 保持原生入口，Antigravity 严守官方 `agy`）；订阅编排免责弹窗升级为遮罩 + 卡片双层磨砂模糊、5 秒阅读倒计时与完整原文确认门禁（零一键复制按钮）。
+> - **最大化内圆角画框、主题化文件树、全宽设置与清透思考头**：整体式 `<PrismuxStageFrame>` 14px 四角内圆角画框完整覆盖最大化后的右侧边栏面板并避免双重模糊；`@pierre/trees` 文件树全量接入 `--pmx-accent` 与液态玻璃卡片基底（告别硬编码蓝框）；全部 `/settings/*` 统一全宽铺满布局；展开工作步骤的思考标题栏改为透明清透头，消除与内容区割裂感。
 
[2 lines of base64/hex data omitted]
 
 <h2 id="preview"><picture><source media="(prefers-color-scheme: dark)" srcset="assets/readme/section-preview-zh-dark.png"><img src="assets/readme/section-preview-zh-light.png" alt="PREVIEW · 界面实景" width="100%"></picture></h2>
 
@@ -161,14 +160,14 @@
 <h2 id="plugins"><picture><source media="(prefers-color-scheme: dark)" srcset="assets/readme/section-plugins-zh-dark.png"><img src="assets/readme/section-plugins-zh-light.png" alt="PLUGINS · 官方独立插件" width="100%"></picture></h2>
 
 > [!NOTE]
-> **官方插件严格默认零预装**：`Prismux-Setup-0.2.1-rc.2-win-x64.exe` 安装包及解压态目录**绝不包含**任何 `plugins-official/` 插件（发布前通过全目录 0 命中扫描校验）。以下 2 款活跃官方插件（`qq`、`fishdock-hook`）均以独立 `.wb-plugin` 归档（配套 `prismux-plugins-official.json` 与 `prismux-plugins-0.2.1-rc.2-SHA256SUMS.txt`）及无脚本 npm 单包分发，按需安装并支持 `ctx.effect()` 零残留卸载。
+> **官方插件严格默认零预装**：`Prismux-Setup-0.2.2-rc.1-win-x64.exe` 安装包及解压态目录**绝不包含**任何 `plugins-official/` 插件（发布前通过全目录 0 命中扫描校验）。以下 2 款活跃官方插件（`qq`、`fishdock-hook`）均以独立 `.wb-plugin` 归档（配套 `prismux-plugins-official.json` 与 `prismux-plugins-0.2.2-rc.1-SHA256SUMS.txt`）及无脚本 npm 单包分发，按需安装并支持 `ctx.effect()` 零残留卸载。
 >
 > **已停用插件说明**：原 `pet`（`@prismux/plugin-pet`，桌宠联动）与 `ssh`（`@prismux/plugin-ssh`，SSH 远程主机终端）已彻底移出官方目录与发布链路——**已停用：已被 Prismux 内置功能取代**。
 
 | 插件 ID | 独立归档包（`.wb-plugin`） | npm 包名（无作用域 / GitHub Packages） | 运行域（`realms`） | 核心能力与隔离边界 |
 | :--- | :--- | :--- | :--- | :--- |
[4 lines of base64/hex data omitted]
 
 ### 插件创作与官方文档
 
@@ -183,31 +182,31 @@
 
 | 分发渠道 | 适用场景 | 入口与下载说明 |
 | :--- | :--- | :--- |
-| **GitHub Releases**（国际直连） | 海外网络 / GitHub CLI 环境 | [Prismux v0.2.1-RC.2 发布页](https://github.com/Fish-under-sea/Prismux/releases/tag/v0.2.1-rc.2) · [直下 `Prismux-Setup-0.2.1-rc.2-win-x64.exe`](https://github.com/Fish-under-sea/Prismux/releases/download/v0.2.1-rc.2/Prismux-Setup-0.2.1-rc.2-win-x64.exe) |
-| **Gitee Releases**（国内镜像） | 中国大陆直连加速下载 | [Prismux v0.2.1-RC.2 发布页](https://gitee.com/Fish-under-sea/Prismux/releases/tag/v0.2.1-rc.2)（含 `80 MB` 7z 无损分卷、分卷汇总校验与全部活跃官方插件归档） |
+| **GitHub Releases**（国际直连） | 海外网络 / GitHub CLI 环境 | [Prismux v0.2.2-RC.1 发布页](https://github.com/Fish-under-sea/Prismux/releases/tag/v0.2.2-rc.1) · [直下 `Prismux-Setup-0.2.2-rc.1-win-x64.exe`](https://github.com/Fish-under-sea/Prismux/releases/download/v0.2.2-rc.1/Prismux-Setup-0.2.2-rc.1-win-x64.exe) |
+| **Gitee Releases**（国内镜像） | 中国大陆直连加速下载 | [Prismux v0.2.2-RC.1 发布页](https://gitee.com/Fish-under-sea/Prismux/releases/tag/v0.2.2-rc.1)（含 `80 MB` 7z 无损分卷、分卷汇总校验与全部活跃官方插件归档） |
 | **软件内更新中心**（推荐） | 自动测速 GitHub / Gitee、分卷实时加权下载与 SHA-256 强制校验 | 在工作台打开 **设置 → 关于与更新**（`/settings/about#prismux-updates`），在 `智能测速 / 国内优先 / 国际优先` 间秒切，查看完整富文本更新日志并一键安装重启 |
 
 ### 平台下载矩阵与完整性校验
 
 | 平台 / 发行资产 | 文件名 / 状态 | 说明与隔离策略 |
 | :--- | :--- | :--- |
[2 lines of base64/hex data omitted]
 | **macOS（Apple Silicon / Intel）** | `暂未发布（已预留通道）` | 后续版本将提供 `.dmg` 安装镜像，遵循同一套 `0-Token` 视觉与 `~/.prismux/` 隔离规范 |
 | **Linux（x86_64 / arm64）** | `暂未发布（已预留通道）` | 后续版本将提供 `.AppImage` / `.deb` 发行包，同样支持双源更新与独立插件验签导入 |
-| **2 款官方独立插件包** | `prismux-plugin-{qq,fishdock-hook}-0.2.1-rc.2.wb-plugin` 与 `prismux-plugins-official.json` | 确定性 ustar + gzip 归档，下载后在 **设置 → 插件中心**（`/settings/plugins`）按需验签导入（`pet` / `ssh` 已停用：已被内置功能取代） |
-| **分离式合并校验清单** | `Prismux-0.2.1-rc.2-SHA256SUMS.txt` 与 `prismux-plugins-0.2.1-rc.2-SHA256SUMS.txt` | 手动下载后可通过 `Get-FileHash Prismux-Setup-0.2.1-rc.2-win-x64.exe -Algorithm SHA256` 或 `7z t` 核对完整性 |
+| **2 款官方独立插件包** | `prismux-plugin-{qq,fishdock-hook}-0.2.2-rc.1.wb-plugin` 与 `prismux-plugins-official.json` | 确定性 ustar + gzip 归档，下载后在 **设置 → 插件中心**（`/settings/plugins`）按需验签导入（`pet` / `ssh` 已停用：已被内置功能取代） |
+| **分离式合并校验清单** | `Prismux-0.2.2-rc.1-SHA256SUMS.txt` 与 `prismux-plugins-0.2.2-rc.1-SHA256SUMS.txt` | 手动下载后可通过 `Get-FileHash Prismux-Setup-0.2.2-rc.1-win-x64.exe -Algorithm SHA256` 或 `7z t` 核对完整性 |
 
 <h2 id="packages"><picture><source media="(prefers-color-scheme: dark)" srcset="assets/readme/section-packages-zh-dark.png"><img src="assets/readme/section-packages-zh-light.png" alt="PACKAGES · npm 与国内镜像" width="100%"></picture></h2>
 
-每款活跃官方插件均额外发布为**零 `preinstall / install / postinstall` 脚本**的独立 npm 单包，内置通过 SHA-256 核验的 `prismux-plugin-<id>-0.2.1-rc.2.wb-plugin` 归档与防覆盖导出命令（`prismux-plugin-<id>`）；软件内插件市场支持在 **`registry.npmjs.org` ↔ `registry.npmmirror.com`** 间免本机 Git 纯流式拉取与自动故障回退。
+每款活跃官方插件均额外发布为**零 `preinstall / install / postinstall` 脚本**的独立 npm 单包，内置通过 SHA-256 核验的 `prismux-plugin-<id>-0.2.2-rc.1.wb-plugin` 归档与防覆盖导出命令（`prismux-plugin-<id>`）；软件内插件市场支持在 **`registry.npmjs.org` ↔ `registry.npmmirror.com`** 间免本机 Git 纯流式拉取与自动故障回退。
 
 ```powershell
 # 1. 从 npm 官方源安装并提取 .wb-plugin 归档（内置 SHA-256 核对，目标文件已存在时不覆盖）
-npm install prismux-plugin-qq@0.2.1-rc.2
+npm install prismux-plugin-qq@0.2.2-rc.1
 npx prismux-plugin-qq --out ./plugins-stage
 
 # 2. 中国大陆网络使用 npmmirror 国内镜像加速安装
-npm install prismux-plugin-qq@0.2.1-rc.2 --registry=https://registry.npmmirror.com
+npm install prismux-plugin-qq@0.2.2-rc.1 --registry=https://registry.npmmirror.com
 npx prismux-plugin-qq --out ./plugins-stage
 ```
 
@@ -249,7 +248,7 @@ prismux/
 ├── THIRD_PARTY_NOTICES.md               # 第三方开源许可与历史归属声明
 ├── README.md / README.en.md             # 中英双语项目主页（含 8 秒 GPU 动态演示）
 ├── pnpm-workspace.yaml                  # 统一 Workspace 白名单（apps/*、packages/*、plugins-official/plugin-*、oxlint-plugin-prismux、scripts）
-├── package.json                         # 根任务编排脚本（0.2.1-rc.2）
+├── package.json                         # 根任务编排脚本（0.2.2-rc.1）
 ├── tsconfig.base.json                   # Prismux 守护进程与核心自研包 TS 严格基线（ES2024 + NodeNext）
 ├── tsconfig.core.json / vite.config.ts  # 桌面端/服务端/前端/Effect 核心包统一构建、Lint 与测试配置
 ├── assets/
@@ -303,7 +302,7 @@ prismux/
 </details>
 
 <details>
-<summary><strong>展开查看：M1–M5 与 v0.1.0 ~ v0.2.1-RC.2 演进里程碑</strong></summary>
+<summary><strong>展开查看：M1–M5 与 v0.1.0 ~ v0.2.2-RC.1 演进里程碑</strong></summary>
 
 | 里程碑 | 核心交付内容 | 验收状态 |
 | :--- | :--- | :--- |
@@ -318,6 +317,7 @@ prismux/
 | **v0.2.0-RC.3** | **浮空概览面板豁免底部输入框**、**全局右下角浮空液态玻璃撤销弹窗**、**精简 4 分组无分割线设置侧栏（「智能体配置」「秘书与记忆」「项目与归档」）+ 3 标签「智能体配置」**、**纯蓝鲸 DSH 图标 + `Pi` 回归 & `fx` 移除**、**实连 DSH 4 斜杠命令 & 14 本地技能 + 语义化 ACP 适配**、**任务管理器级 Windows CPU% 与专用工作集资源监测 + 统一探针驱动底栏用量端点标签**、通用全宽思考强度滑条、全宽定时任务、双语工作区板与侧栏悬停 3 键快捷操作 | 已完成并通过实机签收 |
 | **v0.2.1-RC.1** | **全局智能体单一真相源（23 处面板同步排序与自定义命名）**、**1:1 DSH NEXT 思考/命令层级与 4 档透明工作步骤 + 100% 中文动作 + 丝滑动效与三态玻璃适配**、**DSH 同款思考过程汉化（默认 Bing + 双侧智能中文免翻，支持 Google 与文本模型）**、**全 6 家 Agent 实时 AGY 风格中文 TodoList + 1:1 DSH `SearchBlock` / `WebBlock`**、**独立 `/diagnostics` 服务体检与全宽夜间工场（默认 IMAP/SMTP & Gmail 模板）**、主秘书与文本生成统一遵循 AGY 免责锁 + DSH 本地 `app.asar` 版本实探、新会话标签错配与幻影标签修复 + 12 类中文错误诊断卡、主次字色层级重构与外观实时配色预览、更新通道补齐 `Preview（Alpha / Beta / RC）` 与全套官方 Prismux Logo、清理历史 T3 图标目录并根治 Windows 单测 `D:\tmp` / `D:\Microsoft` 残留 | 已完成并通过全量验收 |
 | **v0.2.1-RC.2** | **DSH 对话遥测与 `/usage` 历史 Zstd 扫描全量打通（真实 TTFT/Decode/缓存/TPS）**、**DSH / Antigravity 跨盘零配置自动发现 + Tab 2 纯独立 API 文本生成（OpenAI/Anthropic/Gemini/自定义）**、**壁纸无 Cookie 路径令牌路由 + HEVC 4K + 真实分辨率与防闪烁 16:9 重构**、**Prismux 原生通用 API 中转站配额面板（New API/One API/OpenAI 兼容 + `cliproxy` 兼容）**、**一级 `Gitee` OpenAPI v5 源码托管集成（彻底移除 `Cursor Origin`）**、**夜间工场接入腾讯 `Agent 邮箱`（`agently-cli`）与网易 `163/126`**、ACP 全家桶官方品牌图标、时间线思考与工具图标主题强调色、更新弹窗进度条吸顶与侧栏语义配色、`/diagnostics` 紧凑卡片统一、精简右侧辅助面板并修复已禁用提供方误报未安装 CLI 缺陷 | 已完成并通过全量验收 |
+| **v0.2.2-RC.1** | **6 款诗意液态玻璃主题基底（`纯净官方 / 星语紫夜 / 翠星漫野 / 樱雪浮岚 / 沧海浮光 / 鎏金织月`）双向同步与 0 Token 隔离**、**Steam Web（零 Referer `../` 越界钳制 + 画布尺寸/就绪投放守卫）与 4K/8K Scene（`scene.pkg` 零拷贝字节范围流 MP4、视口缩放舞台与骨骼偶动画/DXT 安全回退）实时引擎 + `HTMLMediaElement`/`AudioContext` 全局静音控制器**、**全代理原生 CLI 身份保持（移除 Codex/Claude Code 身份覆写）**、**订阅风控免责弹窗双层磨砂模糊 + 5 秒倒计时 + 完整原文确认门禁**、**最大化右侧边栏 14px 内圆角画框覆盖、文件树全量主题强调色与玻璃适配、全宽 `/settings/*` 统一布局及展开思考透明头** | 已完成并通过全量验收 |
 
 </details>
 
@@ -350,4 +350,4 @@ prismux/
 
 Prismux 本仓核心代码与排版工具链遵循 **MIT License**（见仓库根 [`LICENSE`](LICENSE)）；随视觉资产分发的像素字体 `Jersey20-Regular.ttf` 遵循 [SIL Open Font License 1.1](assets/readme/OFL-Jersey20.txt)；所有开源基础与参考组件均在 [`THIRD_PARTY_NOTICES.md`](THIRD_PARTY_NOTICES.md) 中严格保留各自原始许可证与版权归属声明。
 
-<p align="center"><sub>Prismux v0.2.1-RC.2 · Electron 44 + TypeScript + React 19 · 纯本地零遥测 · 8 分区液态玻璃 · Orca 任意分屏 · 2 款按需官方插件</sub></p>
+<p align="center"><sub>Prismux v0.2.2-RC.1 · Electron 44 + TypeScript + React 19 · 纯本地零遥测 · 8 分区液态玻璃 · Orca 任意分屏 · 2 款按需官方插件</sub></p>

diff --git a/docs/plugins/plugin-development-guide.md b/docs/plugins/plugin-development-guide.md
@@ -42,7 +42,7 @@ prismux-plugin-example/
 | 字段 | 要求 | 说明 |
 | :--- | :--- | :--- |
 | `name` | 社区插件使用 `prismux-plugin-<name>` | 官方插件保留 `@prismux/plugin-<id>` 作用域；第三方社区插件统一使用 `prismux-plugin-` 前缀 |
-| `version` | 严格 SemVer 2.0 | 须与 `plugin.manifest.json` 中的 `version` 保持一致（如 `0.1.0`、`0.2.1-rc.2`） |
+| `version` | 严格 SemVer 2.0 | 须与 `plugin.manifest.json` 中的 `version` 保持一致（如 `0.1.0`、`0.2.2-rc.1`） |
 | `type` | 必须为 `"module"` | 守护进程通过原生 ESM `import()` 动态加载插件入口 |
 | `engines.prismux` | **必填顶层字段** | 宿主内核直接解析顶层 `engines.prismux` SemVer 范围，**绝不回退读取 `peerDependencies`** |
 | `exports` / `main` | 指向包内编译后 JS 文件 | 守护进程加载顺序：`exports["./daemon"]` → `exports["."]`（字符串或 `{ import }`）→ `main`，禁止越界跳出插件目录 |
@@ -50,7 +50,7 @@ prismux-plugin-example/
 | `keywords` | 推荐包含 `"prismux-plugin"` | 便于社区检索与 GitHub Topic `prismux-plugin` 对齐 |
 
 > [!IMPORTANT]
-> **关于 `engines.prismux` 与预发布版本兼容**：Prismux 当前处于 `0.2.1-rc.*` 预发布阶段。依据 `@prismux/cordis-kernel` 的 SemVer 引擎规则，当范围下界包含预发布标记（如 `>=0.1.0-0 <2.0.0`）时，可同时匹配 `0.2.1-rc.2` 与后续 `0.2.x` / `1.x` 正式版；若只写 `^0.1.0`，则不会匹配 `0.2.1-rc.*` 预发布宿主。建议统一声明：
+> **关于 `engines.prismux` 与预发布版本兼容**：Prismux 当前处于 `0.2.2-rc.*` 预发布阶段。依据 `@prismux/cordis-kernel` 的 SemVer 引擎规则，当范围下界包含预发布标记（如 `>=0.1.0-0 <2.0.0`）时，可同时匹配 `0.2.2-rc.1` 与后续 `0.2.x` / `1.x` 正式版；若只写 `^0.1.0`，则不会匹配 `0.2.2-rc.*` 预发布宿主。建议统一声明：
 >
 > ```json
 > "engines": {

diff --git a/assets/readme/MAINTAINING.md b/assets/readme/MAINTAINING.md
@@ -4,7 +4,7 @@
 
 ## 渲染命令
 
-在仓库根目录执行（默认从根 `package.json` 自动读取当前版本号，如 `0.2.1-rc.2`）：
+在仓库根目录执行（默认从根 `package.json` 自动读取当前版本号，如 `0.2.2-rc.1`）：
 
 ```powershell
 node scripts/render-readme.mjs
